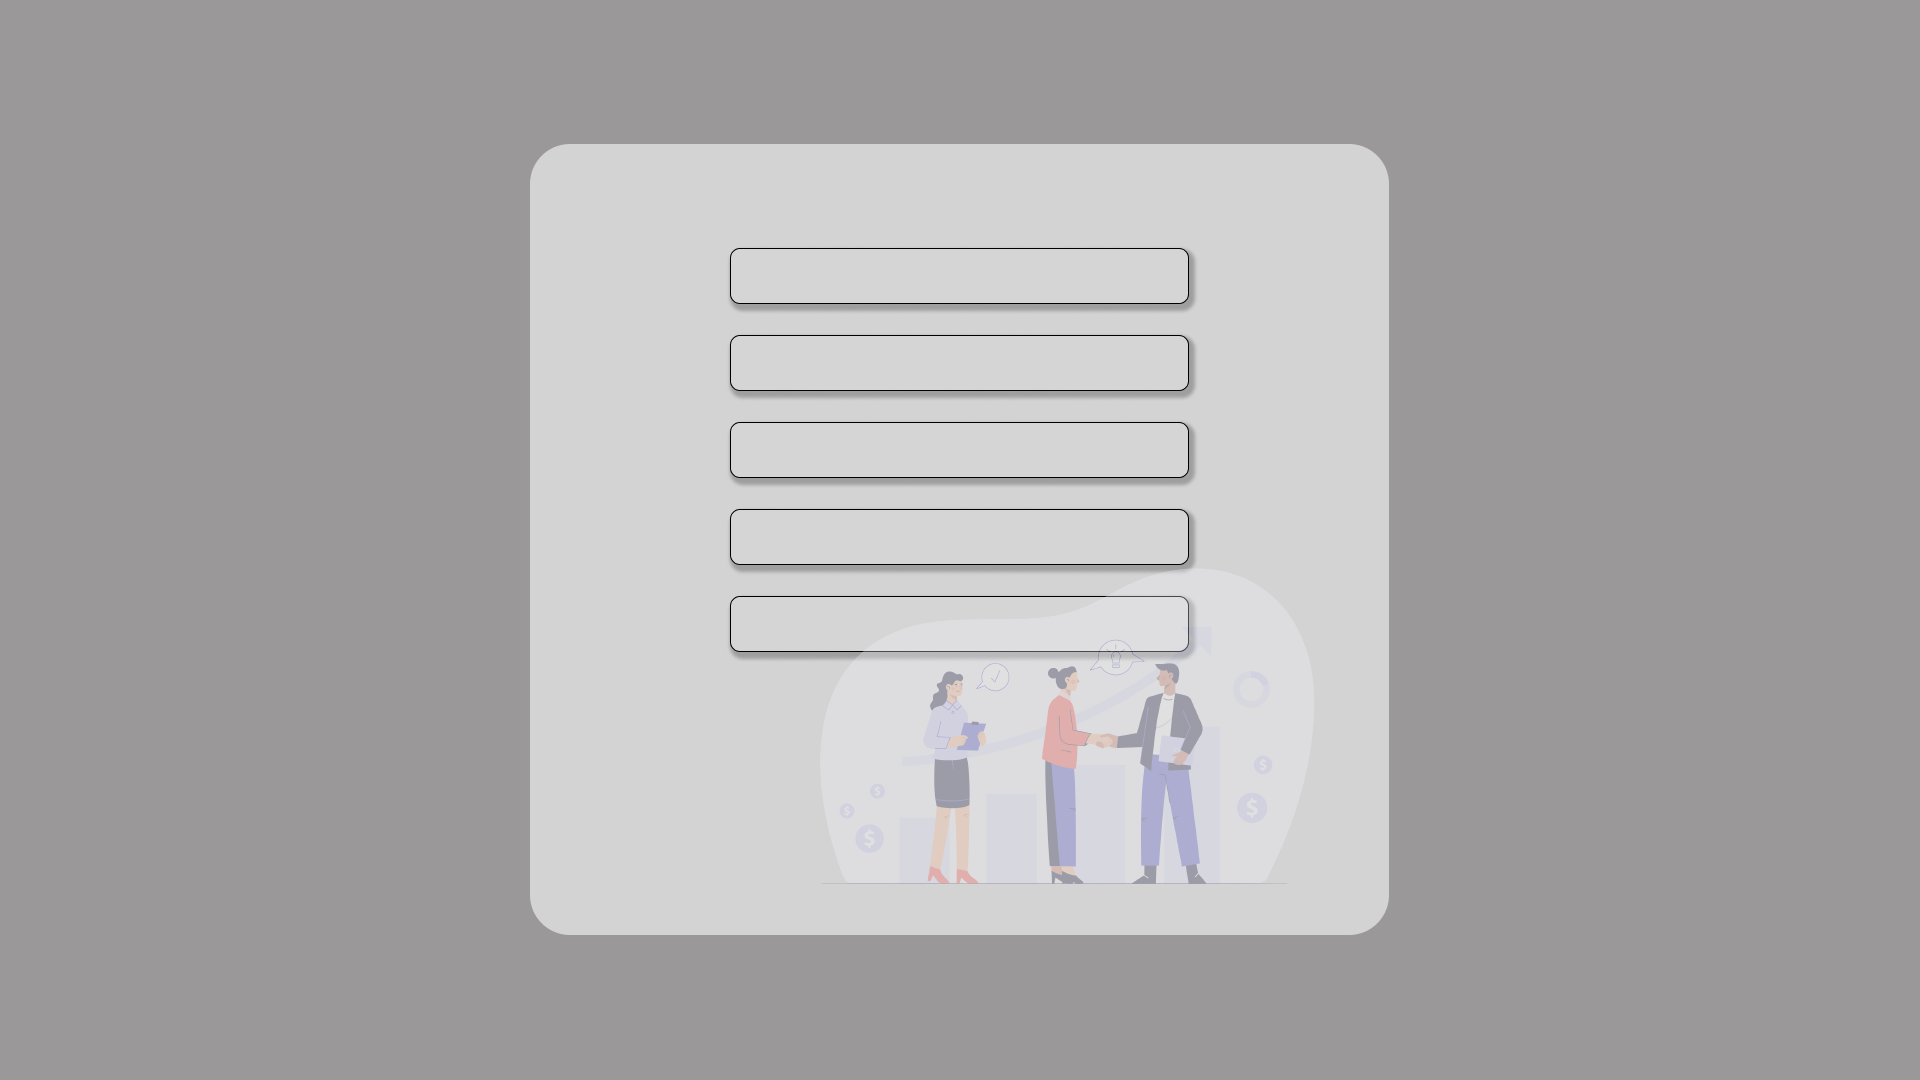
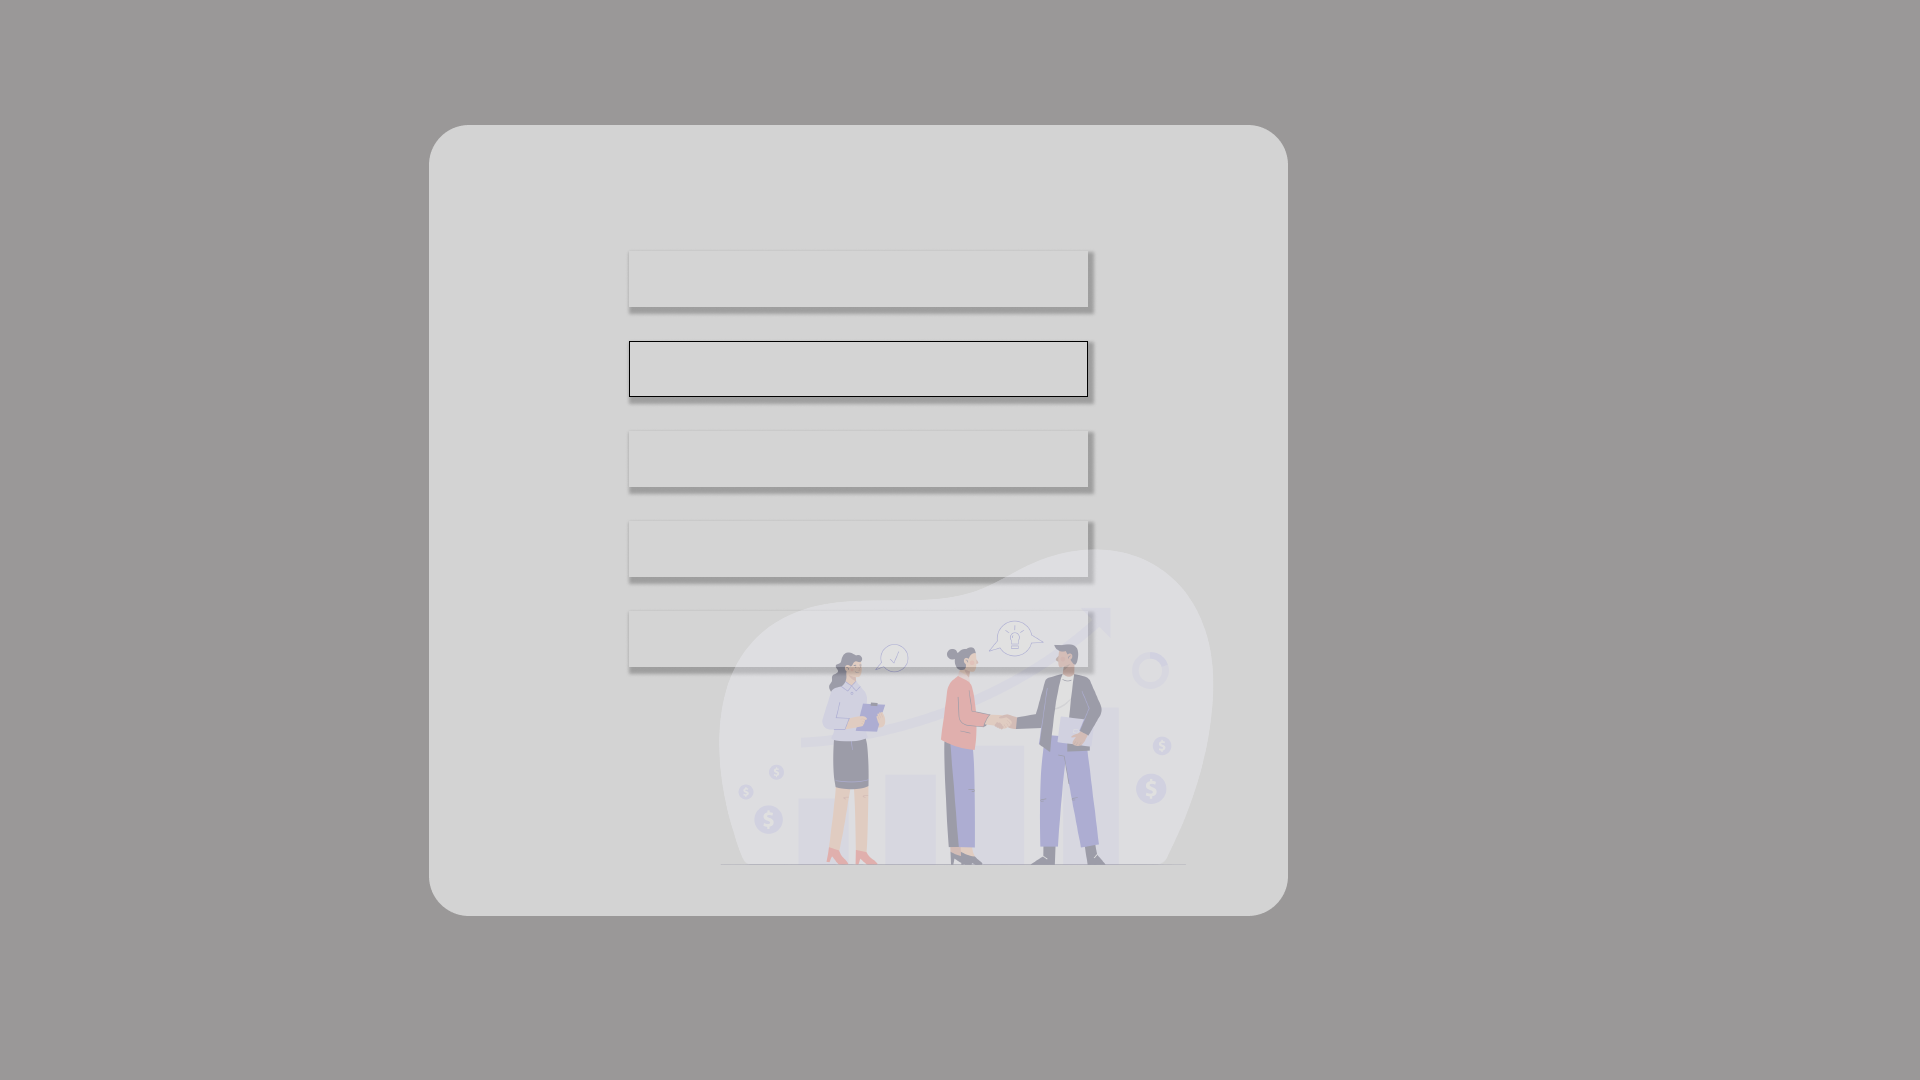
first commit

Changed region(s): [[0.2188, 0.0917, 0.75, 0.8861], [0.3125, 0.2444, 0.625, 0.3972], [0.3125, 0.3972, 0.625, 0.4583]]

diff --git a/src/main/resources/style/registerbutton.css b/src/main/resources/style/registerbutton.css
@@ -1,17 +1,17 @@
 .button-with-style {
-    -fx-background-color: rgb(0, 161, 252);
+    -fx-background-color: rgb(239, 226, 143);
     -fx-background-radius: 15;
     -fx-border-radius: 15;
-    -fx-text-fill: white; /* You can change the text color as needed */
+    -fx-text-fill: #ffffff; /* You can change the text color as needed */
 }
 
 /* CSS Style for the Button when Hovered */
 .button-with-style:hover {
-    -fx-background-color: rgb(10, 89, 236);
+    -fx-background-color: rgb(236, 221, 67);
     -fx-text-fill: black;
 }
 
 /* CSS Style for the Button when Pressed */
 .button-with-style:pressed {
-    -fx-background-color: rgb(10, 46, 224);
+    -fx-background-color: rgb(243, 227, 43);
 }

diff --git a/src/main/resources/style/textfield.css b/src/main/resources/style/textfield.css
@@ -4,11 +4,11 @@
     /* Your custom styles go here */
     -fx-background-color: rgba(255, 0, 0, 0);
     -fx-text-fill: #3c3c69;
-    -fx-border-color: darkgray;
+    -fx-border-color: #090606;
     -fx-border-width: 1px;
     -fx-border-radius: 5px;
     -fx-padding: 5px;
-    -fx-font-size: 14px;
+    -fx-font-size: 24px;
     -fx-font-family: "Arial";
     -fx-prompt-text-fill: gray; /* Color of the prompt text */
     -fx-focus-color: dodgerblue; /* Color of the focus ring when the TextField is selected */

diff --git a/src/main/resources/style/loginbutton.css b/src/main/resources/style/loginbutton.css
@@ -7,11 +7,11 @@
 
 /* CSS Style for the Button when Hovered */
 .button-with-style:hover {
-    -fx-background-color: rgb(0, 255, 41);
+    -fx-background-color: rgb(232, 52, 76);
     -fx-text-fill: black;
 }
 
 /* CSS Style for the Button when Pressed */
 .button-with-style:pressed {
-    -fx-background-color: rgb(11, 253, 23);
+    -fx-background-color: rgb(225, 53, 53);
 }

diff --git a/src/main/resources/style/tableCss.css b/src/main/resources/style/tableCss.css
@@ -36,10 +36,10 @@
 }
 .table-row-cell:hover {
     -fx-background-color: rgba(2, 227, 90, 0.07);
-    -fx-text-background-color: #3f2def;
+    -fx-text-background-color: #8379e7;
 }
 .table-row-cell:odd{
-    -fx-background-color: white;
+    -fx-background-color: #706e6e;
     -fx-background-insets: 0, 0 0 1 0;
     -fx-padding: 0.0em;
 }

diff --git a/src/main/java/lk/ijse/teaFactory/controller/CustomerAddPageController.java b/src/main/java/lk/ijse/teaFactory/controller/CustomerAddPageController.java
@@ -13,6 +13,7 @@ import javafx.scene.input.KeyEvent;
 import javafx.scene.layout.AnchorPane;
 import lk.ijse.teaFactory.dto.CustomerDto;
 import lk.ijse.teaFactory.dto.EmployeeDto;
+import lk.ijse.teaFactory.dto.ErrorAnimation;
 import lk.ijse.teaFactory.model.CustomerModel;
 import lk.ijse.teaFactory.model.EmployeeModel;
 
@@ -48,6 +49,8 @@ public class CustomerAddPageController {
 
     @FXML
     private JFXComboBox<String> empidTxt;
+
+    ErrorAnimation errorAnimation = new ErrorAnimation();
 
     @FXML
     void addNewCusOnAction(ActionEvent event) {
@@ -102,17 +105,13 @@ public class CustomerAddPageController {
    }
 
 
-
-
-
-
-
     private boolean validate() {
 
         String idText = cusidTxt.getText();
 //        boolean isCustomerIDValidated = Pattern.compile("[C][0-9]{3,}").matcher(idText).matches();
         boolean isIDValidated = Pattern.matches("[C][0-9]{3,}", idText);
         if (!isIDValidated) {
+            errorAnimation.animateError(cusidTxt);
             new Alert(Alert.AlertType.ERROR, "Invalid Customer ID!").show();
             return false;
         }
@@ -130,7 +129,8 @@ public class CustomerAddPageController {
 //        boolean isCustomerNameValidated = Pattern.compile("[A-Za-z]{3,}").matcher(nameText).matches();
         boolean isNameValidated = Pattern.matches("[A-Za-z]{3,}", nameText);
         if (!isNameValidated) {
-            new Alert(Alert.AlertType.ERROR, "Invalid customer name").show();
+            errorAnimation.animateError(cusnameTxt);
+           // new Alert(Alert.AlertType.ERROR, "Invalid customer name").show();
             return false;
         }
 
@@ -138,6 +138,7 @@ public class CustomerAddPageController {
 //        boolean isAddressValidated = Pattern.compile("[A-Za-z0-9]{3,}").matcher(addressText).matches();
         boolean isAddressValidated = Pattern.matches("[A-Za-z0-9/.\\s]{3,}", addressText);
         if (!isAddressValidated) {
+            errorAnimation.animateError(cusAddressTxt);
             new Alert(Alert.AlertType.ERROR, "Invalid customer address").show();
             return false;
         }
@@ -146,6 +147,7 @@ public class CustomerAddPageController {
 //        boolean isCustomerAddressValidated = Pattern.compile("[A-Za-z0-9]{3,}").matcher(addressText).matches();
         boolean isCantacValidated = Pattern.matches("[0-9]{10}", cantacText);
         if (!isCantacValidated) {
+            errorAnimation.animateError(cuscontacTxt);
             new Alert(Alert.AlertType.ERROR, "Invalid customer contac").show();
             return false;
         }

diff --git a/src/main/java/lk/ijse/teaFactory/controller/VerifiedPageController.java b/src/main/java/lk/ijse/teaFactory/controller/VerifiedPageController.java
@@ -5,6 +5,7 @@ import javafx.fxml.FXML;
 import javafx.fxml.FXMLLoader;
 import javafx.scene.control.Alert;
 import javafx.scene.control.TextField;
+import javafx.scene.layout.AnchorPane;
 import lk.ijse.teaFactory.model.RegisterModel;
 
 import java.io.IOException;
@@ -15,6 +16,9 @@ public class VerifiedPageController {
 
     @FXML
     private TextField confimepwTxt;
+    @FXML
+    private AnchorPane root;
+
 
     @FXML
     private TextField newpwTxt;
@@ -27,21 +31,28 @@ public class VerifiedPageController {
     void pwSaveOnAction(ActionEvent event) {
         String id = uidTxt.getText();
         String pw = newpwTxt.getText();
+        String cfpw = confimepwTxt.getText();
 
         try {
-            boolean isLogin = RegisterModel.updatepw(id, pw);
-            if (isLogin) {
-             //   loginroot.getChildren().clear();
-              //  loginroot.getChildren().add(FXMLLoader.load(Objects.requireNonNull(getClass().getResource("/view/dashboard.fxml"))));
+            if (pw.equals(cfpw)) {
+                boolean isLogin = RegisterModel.updatepw(id, pw);
+                if (isLogin) {
+                    root.getChildren().clear();
+                    root.getChildren().add(FXMLLoader.load(Objects.requireNonNull(getClass().getResource("/view/login_page.fxml"))));
 
-                System.out.println("ok bro");
 
-                return;
-            } else {
-                new Alert(Alert.AlertType.WARNING, "Invalid Username Or Passowrd").show();
+                    return;
+                } else {
+                    new Alert(Alert.AlertType.WARNING, "Invalid Username Or Passowrd").show();
+                }
+            }
+            else {
+                new Alert(Alert.AlertType.WARNING, "Invalid password").show();
             }
         } catch (SQLException e) {
             new Alert(Alert.AlertType.ERROR, e.getMessage()).show();
+        } catch (IOException e) {
+            throw new RuntimeException(e);
         }
 
 

diff --git a/src/main/java/lk/ijse/teaFactory/model/StokeDetailModel.java b/src/main/java/lk/ijse/teaFactory/model/StokeDetailModel.java
@@ -9,23 +9,29 @@ import java.sql.PreparedStatement;
 import java.sql.SQLException;
 
 public class StokeDetailModel {
-    LeavesStokeDto a = new LeavesStokeDto();
-    PacketStokeDto b = new PacketStokeDto();
 
-    public void saveId() throws SQLException {
+    public void saveId(String id) throws SQLException {
         Connection connection = DbConnection.getInstance().getConnection();
 
-        String sql = "INSERT INTO stoke_detailse (packet_id, leaves_id) VALUES(?, ?)";
-        PreparedStatement pstm = connection.prepareStatement(sql);
+        String sql = "INSERT INTO stoke_detailse (p_stoke_id) VALUES (?)";
+        try (PreparedStatement pstm = connection.prepareStatement(sql)) {
+            pstm.setString(1, id);
 
-        pstm.setString(1,b.getId());
-        pstm.setString(2,a.getId());
-
-        // Execute the query
-        pstm.executeUpdate();
-
-        // Close the PreparedStatement and Connection
-
-
+            // Execute the query
+            pstm.executeUpdate();
+        } // The try-with-resources statement automatically closes the PreparedStatement and Connection
     }
+
+    public void saveId2(String id) throws SQLException {
+        Connection connection = DbConnection.getInstance().getConnection();
+
+        String sql = "INSERT INTO stoke_detailse (l_id) VALUES (?)";
+        try (PreparedStatement pstm = connection.prepareStatement(sql)) {
+            pstm.setString(1, id);
+
+            // Execute the query
+            pstm.executeUpdate();
+        } // The try-with-resources statement automatically closes the PreparedStatement and Connection
+    }
+
 }

diff --git a/src/main/java/lk/ijse/teaFactory/controller/Dashboard1Controller.java b/src/main/java/lk/ijse/teaFactory/controller/Dashboard1Controller.java
@@ -8,6 +8,7 @@ import javafx.scene.control.Label;
 import javafx.util.Duration;
 import lk.ijse.teaFactory.model.CusOrderModel;
 import lk.ijse.teaFactory.model.CustomerModel;
+import lk.ijse.teaFactory.model.EmployeeModel;
 
 import java.sql.SQLException;
 import java.time.LocalDate;
@@ -23,6 +24,9 @@ public class Dashboard1Controller {
     private Label lblordersTxt;
 
     @FXML
+    private Label lblemp;
+
+    @FXML
     private Label lblCus;
 
     @FXML
@@ -31,6 +35,7 @@ public class Dashboard1Controller {
         generateRealTime();
         generateOrderCount();
         generateCustemereCount();
+        generatempCount();
     }
 
     private void generateRealTime() {
@@ -43,6 +48,12 @@ public class Dashboard1Controller {
 
         timeline.setCycleCount(Animation.INDEFINITE);
         timeline.play();
+    }
+
+    public void generatempCount() throws SQLException {
+        EmployeeModel order = new EmployeeModel();
+        int a = order.empCount();
+        lblemp.setText(String.valueOf(a));
     }
 
 

diff --git a/src/main/java/lk/ijse/teaFactory/model/PlaseOrderModel.java b/src/main/java/lk/ijse/teaFactory/model/PlaseOrderModel.java
@@ -14,7 +14,9 @@ public class PlaseOrderModel {
 
     public static boolean placeOrder(PaseOrderDto placeOrderDto) throws SQLException {
 
+        // legal
 
+/*
             String orderId = placeOrderDto.getid();
             String customerId = placeOrderDto.getCId();
             String category = placeOrderDto.getCatagary();
@@ -47,10 +49,11 @@ public class PlaseOrderModel {
                 connection.setAutoCommit(true);
             }
             return true;
+            */
 
  //  this type is correct but illigal
 
-        /*
+
         String orderId = placeOrderDto.getid();
         String customerId = placeOrderDto.getCId();
         String category = placeOrderDto.getCatagary();
@@ -84,7 +87,7 @@ public class PlaseOrderModel {
         }
         return true;
 
-         */
+
 
     }
 }

diff --git a/src/main/java/lk/ijse/teaFactory/model/PacketStokeModel.java b/src/main/java/lk/ijse/teaFactory/model/PacketStokeModel.java
@@ -149,6 +149,9 @@ public class PacketStokeModel {
         return dtoList;
     }
 
+    // legal
+
+/*
     public boolean updateItem(List<CartTm> cartTmList) throws SQLException {
         for(CartTm tm : cartTmList) {
             System.out.println("Item: " + tm);
@@ -170,6 +173,8 @@ public class PacketStokeModel {
 
         return pstm.executeUpdate() > 0; //false
     }
+
+ */
 
 
 
@@ -201,7 +206,7 @@ public class PacketStokeModel {
   // this type is correct but illigal
 
 
-    /*
+
     public boolean deleteItem(List<CartTm> cartTmList) throws SQLException {
         for(CartTm tm : cartTmList) {
             System.out.println("Item: " + tm);
@@ -222,7 +227,7 @@ public class PacketStokeModel {
         return pstm.executeUpdate() > 0;
     }
 
-     */
+
 
 
 

diff --git a/src/main/java/lk/ijse/teaFactory/model/EmployeeModel.java b/src/main/java/lk/ijse/teaFactory/model/EmployeeModel.java
@@ -174,6 +174,23 @@ public class EmployeeModel {
         return dto;
     }
 
+    public int empCount() throws SQLException {
+        int rowCount = 0;
+        Connection connection = DbConnection.getInstance().getConnection();
+
+        String sql = "SELECT COUNT(employeeid) AS row_count FROM employee";
+
+        try (PreparedStatement statement = connection.prepareStatement(sql);
+             ResultSet resultSet = statement.executeQuery()) {
+
+            if (resultSet.next()) {
+                rowCount = resultSet.getInt("row_count");
+                System.out.println("Number of rows: " + rowCount);
+            }
+        }
+        return rowCount;
+    }
+
 
 }
 

diff --git a/src/main/java/lk/ijse/teaFactory/controller/OtpPageController.java b/src/main/java/lk/ijse/teaFactory/controller/OtpPageController.java
@@ -38,6 +38,8 @@ public class OtpPageController implements Initializable {
     @FXML
     private TextField otpField4Txt;
 
+    FogetpwController fogetpwController = new FogetpwController();
+
     /*
     public void save(final OtpDto dto) {
         this.otp = dto.getOtp();
@@ -147,6 +149,13 @@ public class OtpPageController implements Initializable {
 
     @FXML
     void tOnAction(ActionEvent event) throws IOException {
+
+    }
+
+    @FXML
+    void resentOtpOnAction(ActionEvent event) throws SQLException {
+
+        fogetpwController.generateNewOtp();
 
     }
 
